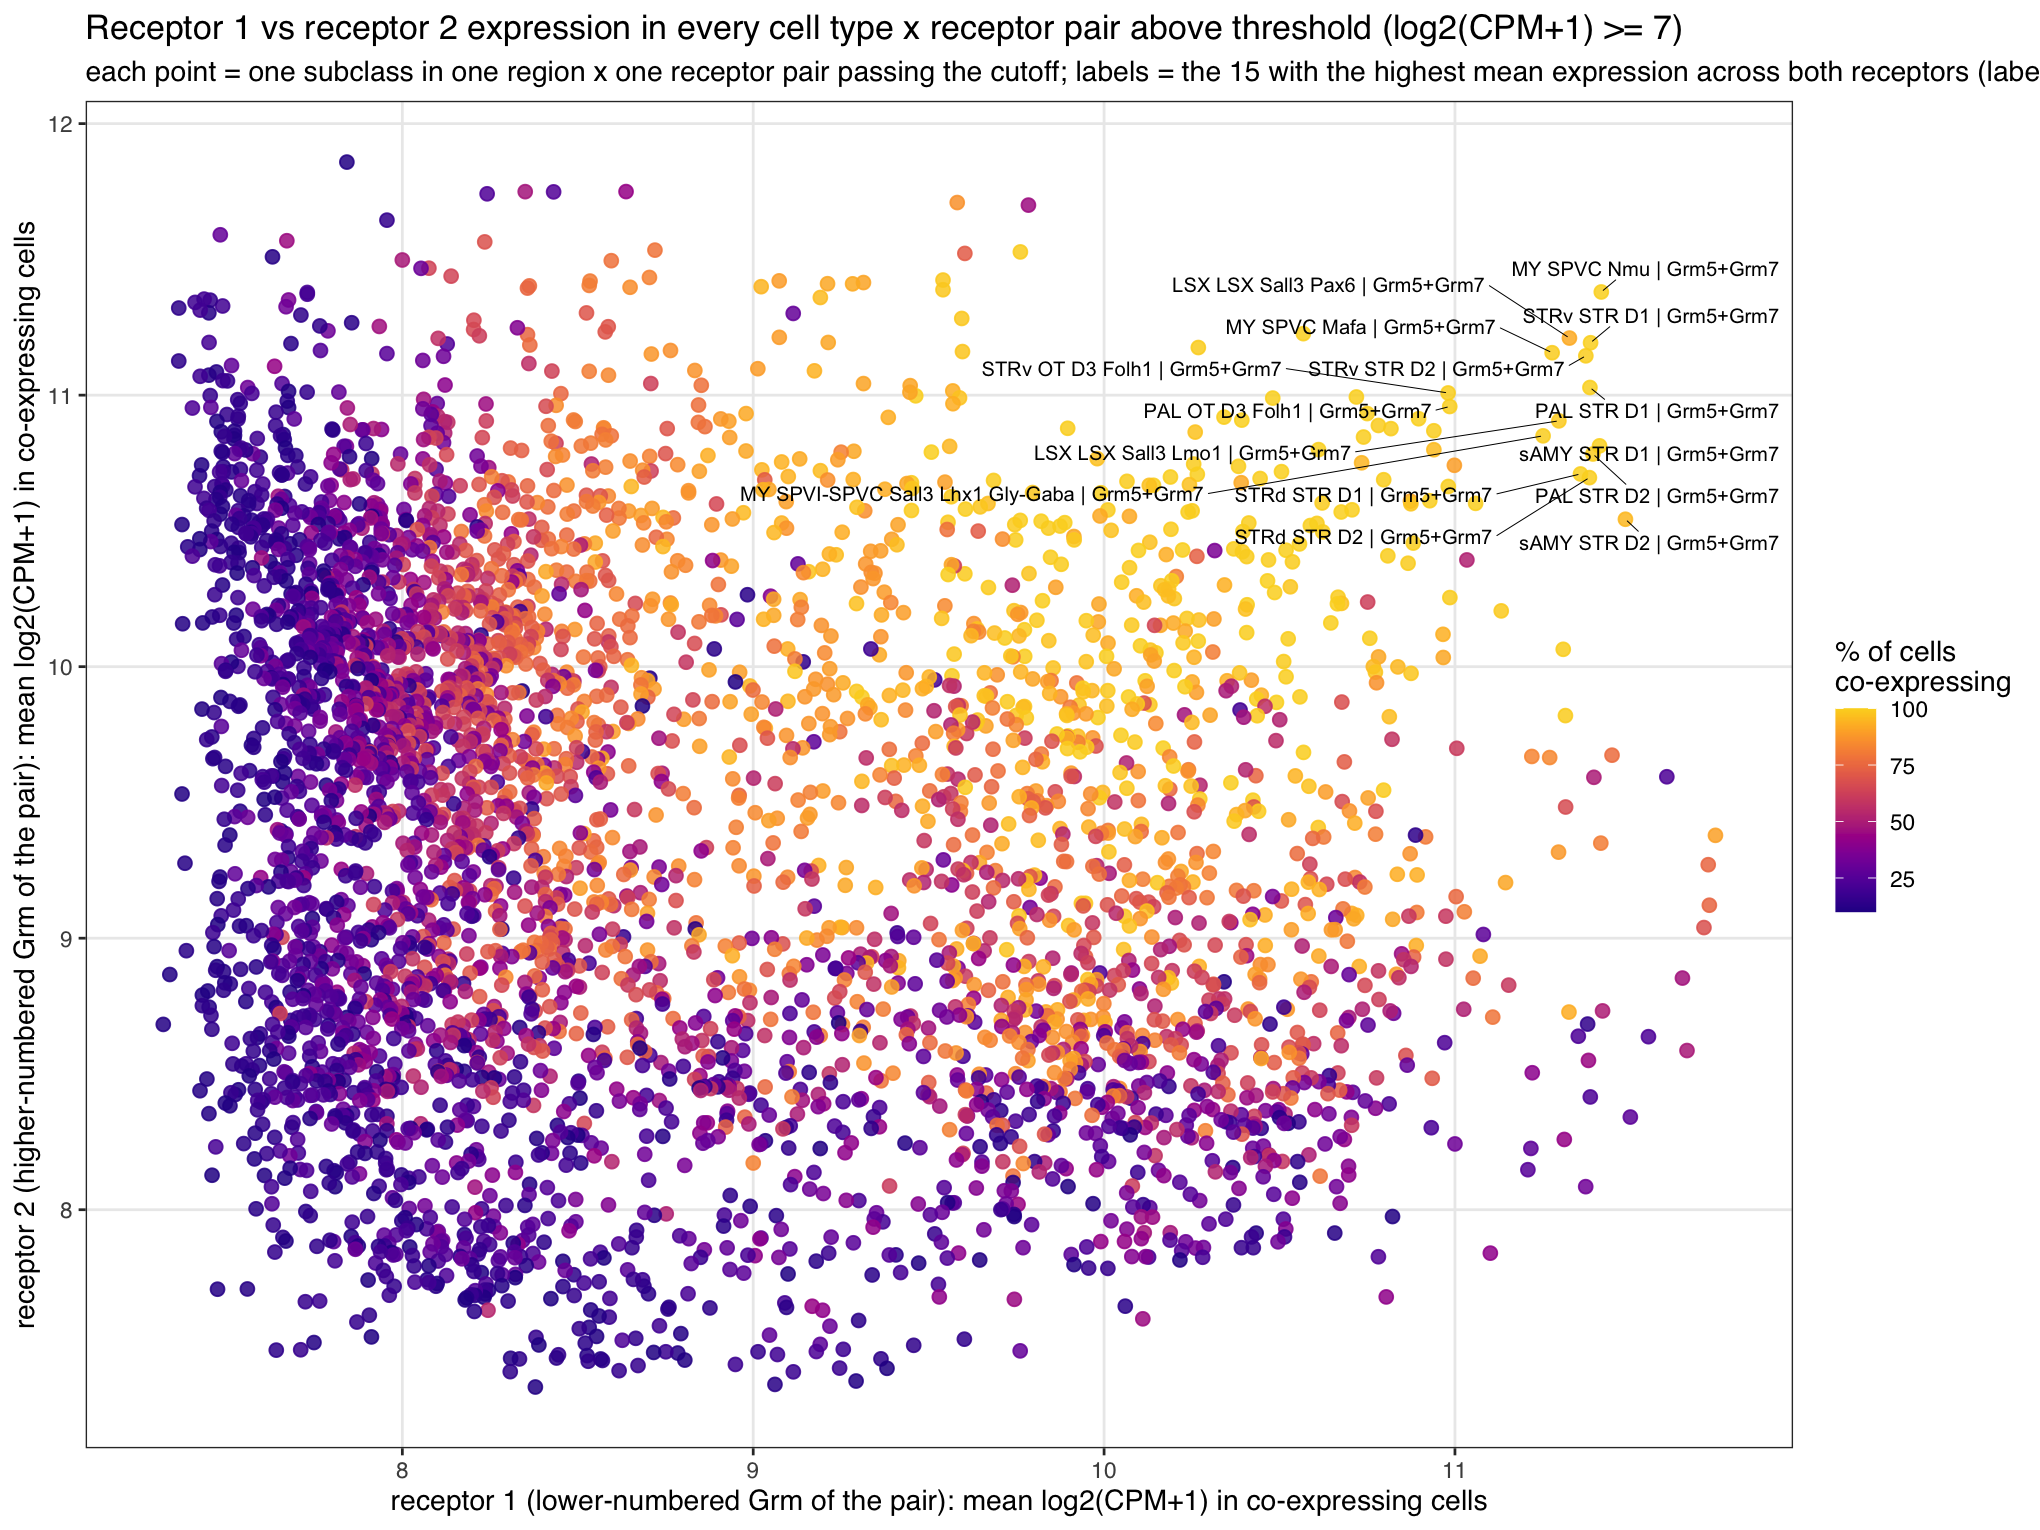
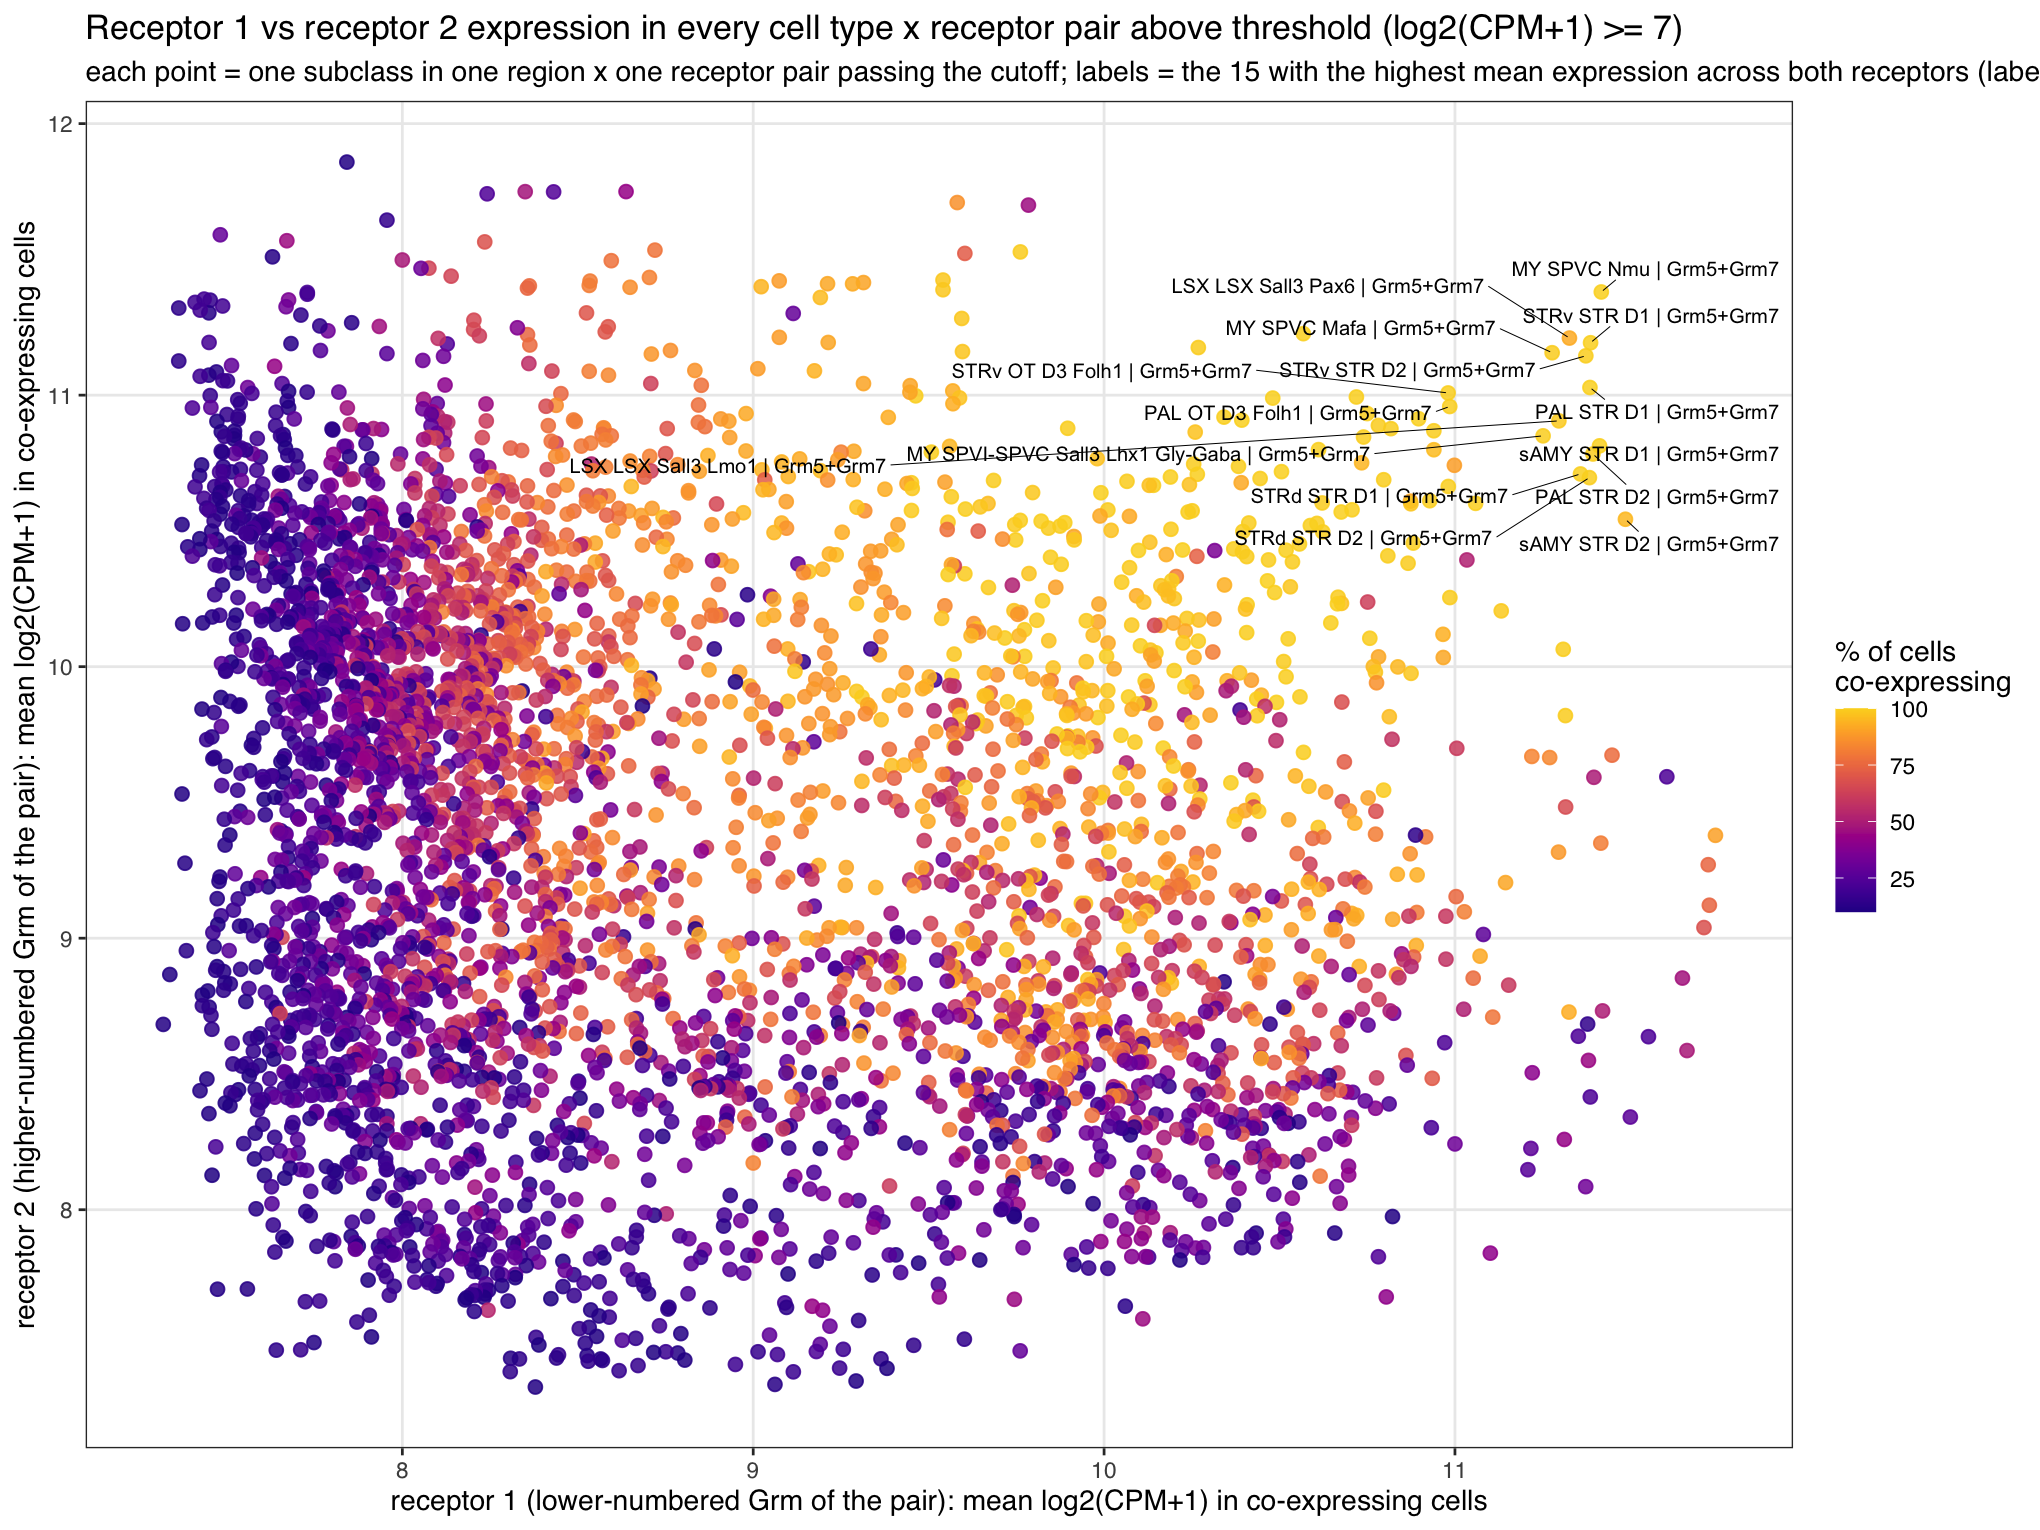
Add top-100 zoomed receptor expression scatter
Claude-Session: https://claude.ai/code/session_01KFPffrMSKnZhb77F2SY6Li

diff --git a/README.md b/README.md
@@ -112,6 +112,43 @@ Label key:
 - **STRv OT D3 Folh1 | Grm5+Grm7**: Striatum ventral region (STRv); subclass 060 OT D3 Folh1 Gaba (class 09 CNU-LGE GABA); Grm5 + Grm7; 7,665 cells, 100% co-express
 - **PAL OT D3 Folh1 | Grm5+Grm7**: Pallidum (PAL); subclass 060 OT D3 Folh1 Gaba (class 09 CNU-LGE GABA); Grm5 + Grm7; 4,471 cells, 100% co-express
 
+<img src="figures/allen_wmb/pairs_coexpression_whole_atlas/GRM_ALLPAIRS_8_receptor_expression_scatter_top100.png" width="900">
+
+Same plot restricted to the 100 highest-expressing hits (ranked by mean expression across both receptors), with axes zoomed to that range so the points spread out. Labeled points are ranks 16-45; ranks 1-15 are labeled in the plot above.
+
+Label key:
+
+- **sAMY MEA-BST Otp Zic2 | Grm5+Grm7**: Striatum-like amygdalar nuclei (sAMY); subclass 121 MEA-BST Otp Zic2 Glut (class 13 CNU-HYa Glut); Grm5 + Grm7; 1,255 cells, 100% co-express
+- **sAMY CEA-BST Six3 Cyp26b1 | Grm5+Grm7**: Striatum-like amygdalar nuclei (sAMY); subclass 079 CEA-BST Six3 Cyp26b1 Gaba (class 11 CNU-HYa GABA); Grm5 + Grm7; 4,675 cells, 100% co-express
+- **PAL STR D1 Sema5a | Grm5+Grm7**: Pallidum (PAL); subclass 063 STR D1 Sema5a Gaba (class 09 CNU-LGE GABA); Grm5 + Grm7; 3,109 cells, 100% co-express
+- **MY SPVI-SPVC Sall3 Nfib Gly-Gaba | Grm5+Grm7**: Medulla (MY); subclass 305 SPVI-SPVC Sall3 Nfib Gly-Gaba (class 27 MY GABA); Grm5 + Grm7; 1,582 cells, 89% co-express
+- **MB SCsg Gabrr2 | Grm5+Grm7**: Midbrain (MB); subclass 213 SCsg Gabrr2 Gaba (class 20 MB GABA); Grm5 + Grm7; 13,642 cells, 96% co-express
+- **STRv STR-PAL Chst9 | Grm5+Grm7**: Striatum ventral region (STRv); subclass 064 STR-PAL Chst9 Gaba (class 09 CNU-LGE GABA); Grm5 + Grm7; 1,349 cells, 100% co-express
+- **VIS-PTLp L5 NP CTX | Grm5+Grm7**: Visual/posterior parietal  areas (VIS-PTLp); subclass 032 L5 NP CTX Glut (class 02 NP-CT-L6b Glut); Grm5 + Grm7; 1,092 cells, 100% co-express
+- **LSX TRS-BAC Sln | Grm7+Grm8**: Lateral septal complex (LSX); subclass 111 TRS-BAC Sln Glut (class 13 CNU-HYa Glut); Grm7 + Grm8; 534 cells, 100% co-express
+- **MB PAG Pou4f2 Mesi2 | Grm5+Grm7**: Midbrain (MB); subclass 174 PAG Pou4f2 Mesi2 Glut (class 19 MB Glut); Grm5 + Grm7; 5,075 cells, 99% co-express
+- **PL-ILA-ORB L5 NP CTX | Grm5+Grm7**: Prelimbic/infralimbic/orbital areas  (PL-ILA-ORB); subclass 032 L5 NP CTX Glut (class 02 NP-CT-L6b Glut); Grm5 + Grm7; 3,988 cells, 100% co-express
+- **sAMY STR-PAL Chst9 | Grm5+Grm7**: Striatum-like amygdalar nuclei (sAMY); subclass 064 STR-PAL Chst9 Gaba (class 09 CNU-LGE GABA); Grm5 + Grm7; 3,766 cells, 100% co-express
+- **PAL STR-PAL Chst9 | Grm5+Grm7**: Pallidum (PAL); subclass 064 STR-PAL Chst9 Gaba (class 09 CNU-LGE GABA); Grm5 + Grm7; 4,603 cells, 100% co-express
+- **PAL CEA-BST Six3 Cyp26b1 | Grm5+Grm7**: Pallidum (PAL); subclass 079 CEA-BST Six3 Cyp26b1 Gaba (class 11 CNU-HYa GABA); Grm5 + Grm7; 1,019 cells, 100% co-express
+- **ACA L5 NP CTX | Grm5+Grm7**: Anterior cingulate area (ACA); subclass 032 L5 NP CTX Glut (class 02 NP-CT-L6b Glut); Grm5 + Grm7; 3,541 cells, 100% co-express
+- **PAL TRS-BAC Sln | Grm7+Grm8**: Pallidum (PAL); subclass 111 TRS-BAC Sln Glut (class 13 CNU-HYa Glut); Grm7 + Grm8; 602 cells, 95% co-express
+- **MY SPVC Ccdc172 | Grm5+Grm7**: Medulla (MY); subclass 257 SPVC Ccdc172 Glut (class 24 MY Glut); Grm5 + Grm7; 592 cells, 45% co-express
+- **P DTN-LDT-IPN Otp Pax3 | Grm5+Grm7**: Pons (P); subclass 277 DTN-LDT-IPN Otp Pax3 Gaba (class 26 P GABA); Grm5 + Grm7; 2,410 cells, 91% co-express
+- **CTXsp IA Mgp | Grm5+Grm7**: Cortical subplate (CTXsp); subclass 065 IA Mgp Gaba (class 09 CNU-LGE GABA); Grm5 + Grm7; 1,299 cells, 98% co-express
+- **STRv STR D1 Sema5a | Grm5+Grm7**: Striatum ventral region (STRv); subclass 063 STR D1 Sema5a Gaba (class 09 CNU-LGE GABA); Grm5 + Grm7; 2,707 cells, 100% co-express
+- **MB SCs Dmbx1 | Grm5+Grm7**: Midbrain (MB); subclass 207 SCs Dmbx1 Gaba (class 20 MB GABA); Grm5 + Grm7; 5,592 cells, 99% co-express
+- **MB IPN Otp Crisp1 | Grm5+Grm7**: Midbrain (MB); subclass 214 IPN Otp Crisp1 Gaba (class 20 MB GABA); Grm5 + Grm7; 2,996 cells, 51% co-express
+- **ENT L2 IT ENT-po | Grm5+Grm7**: Entorhinal area (ENT); subclass 011 L2 IT ENT-po Glut (class 01 IT-ET Glut); Grm5 + Grm7; 3,544 cells, 100% co-express
+- **PAL SI-MA-ACB Ebf1 Bnc2 | Grm5+Grm7**: Pallidum (PAL); subclass 078 SI-MA-ACB Ebf1 Bnc2 Gaba (class 11 CNU-HYa GABA); Grm5 + Grm7; 1,164 cells, 100% co-express
+- **TH SCsg Gabrr2 | Grm5+Grm7**: Thalamus (TH); subclass 213 SCsg Gabrr2 Gaba (class 20 MB GABA); Grm5 + Grm7; 2,082 cells, 99% co-express
+- **TEa-PERI-ECT L5 NP CTX | Grm5+Grm7**: Temporal/perirhinal/ectorhinal areas  (TEa-PERI-ECT); subclass 032 L5 NP CTX Glut (class 02 NP-CT-L6b Glut); Grm5 + Grm7; 1,572 cells, 100% co-express
+- **MB SCdg-PAG Tfap2b | Grm5+Grm7**: Midbrain (MB); subclass 179 SCdg-PAG Tfap2b Glut (class 19 MB Glut); Grm5 + Grm7; 1,750 cells, 100% co-express
+- **LSX LSX Prdm12 Zeb2 | Grm1+Grm5**: Lateral septal complex (LSX); subclass 071 LSX Prdm12 Zeb2 Gaba (class 10 LSX GABA); Grm1 + Grm5; 6,520 cells, 86% co-express
+- **HY MM Foxb1 | Grm1+Grm7**: Hypothalamus (HY); subclass 144 MM Foxb1 Glut (class 16 HY MM Glut); Grm1 + Grm7; 8,270 cells, 99% co-express
+- **AUD L5 NP CTX | Grm5+Grm7**: Auditory areas (AUD); subclass 032 L5 NP CTX Glut (class 02 NP-CT-L6b Glut); Grm5 + Grm7; 2,236 cells, 100% co-express
+- **STRd STR D1 Sema5a | Grm5+Grm7**: Striatum dorsal region (STRd); subclass 063 STR D1 Sema5a Gaba (class 09 CNU-LGE GABA); Grm5 + Grm7; 780 cells, 100% co-express
+
 ## Caveats
 
 - Dissection region (ROI) is coarse; fine identity comes from subclass/supertype/cluster

diff --git a/figures/allen_wmb/pairs_coexpression_whole_atlas/README.md b/figures/allen_wmb/pairs_coexpression_whole_atlas/README.md
@@ -38,6 +38,12 @@ Every passing cell type x pair; top 15 labeled.
 
 <img src="GRM_ALLPAIRS_7_receptor_expression_scatter.png" width="800">
 
+## 8. Top 100, zoomed
+
+Same as 7 restricted to the 100 highest hits with zoomed axes; ranks 16-45 labeled.
+
+<img src="GRM_ALLPAIRS_8_receptor_expression_scatter_top100.png" width="800">
+
 ## 4. Cell type x region dot plots (top pairs)
 
 Rows = subclasses, columns = regions (* = focus), color = % co-expressing, size = cells; last column = regions passing.
